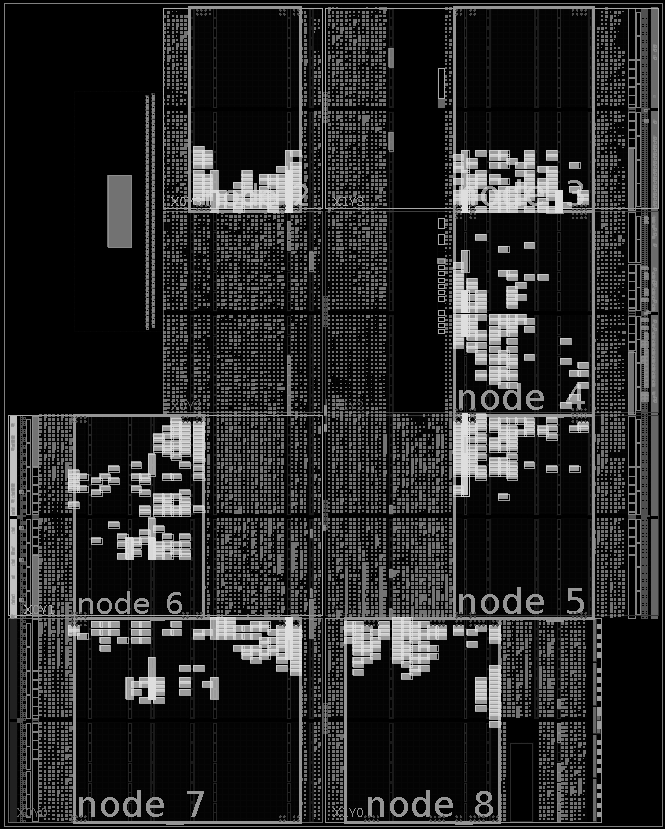
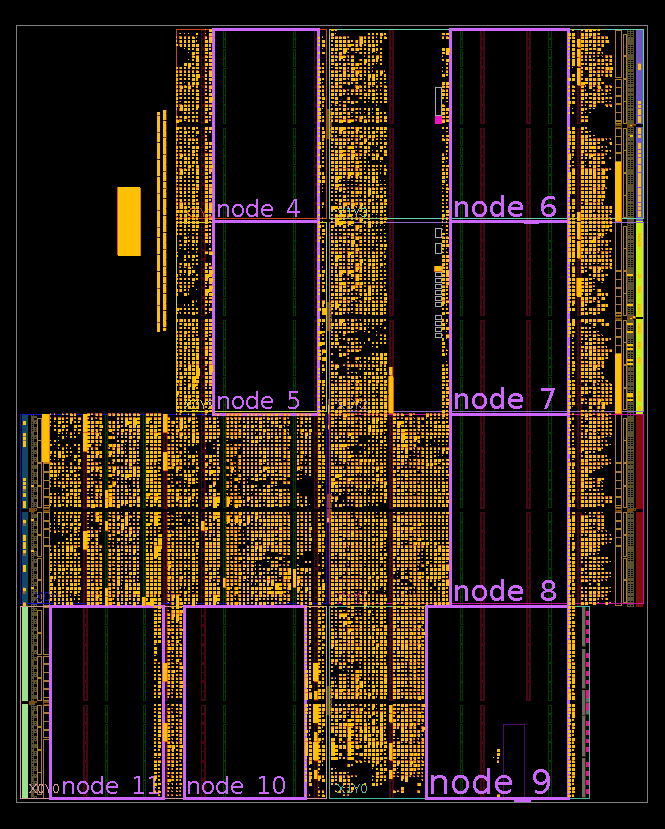
Update FPGA floorplan
Floorplan for 7030 with 8 PR nodes. Adjust UI to match regions.

diff --git a/mainwindow.cpp b/mainwindow.cpp
@@ -121,6 +121,9 @@ QLabel* MainWindow::getPrRegion(int id)
     case 13:
         prRegionOverlay = ui->node13_overlay;
         break;
+    case 14:
+        prRegionOverlay = ui->node14_overlay;
+        break;
     }
 
     return prRegionOverlay;
@@ -142,6 +145,7 @@ void MainWindow::updateFloorplan()
     ui->node11_overlay->hide();
     ui->node12_overlay->hide();
     ui->node13_overlay->hide();
+    ui->node14_overlay->hide();
 
     DyploNodeInfoList nodes;
     nodes.clear();
